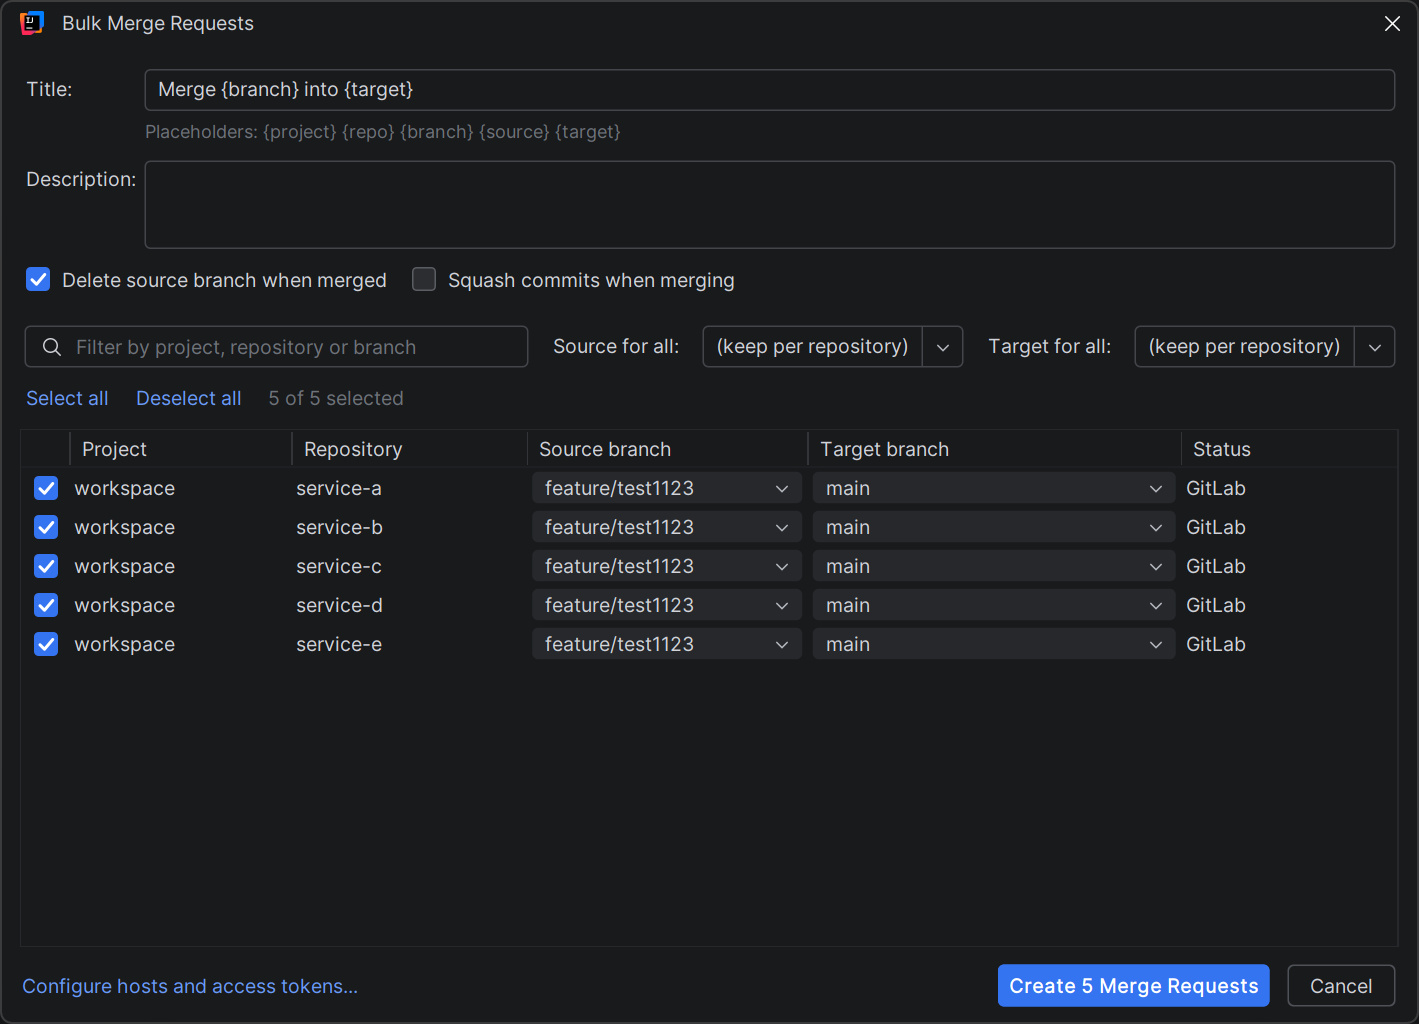
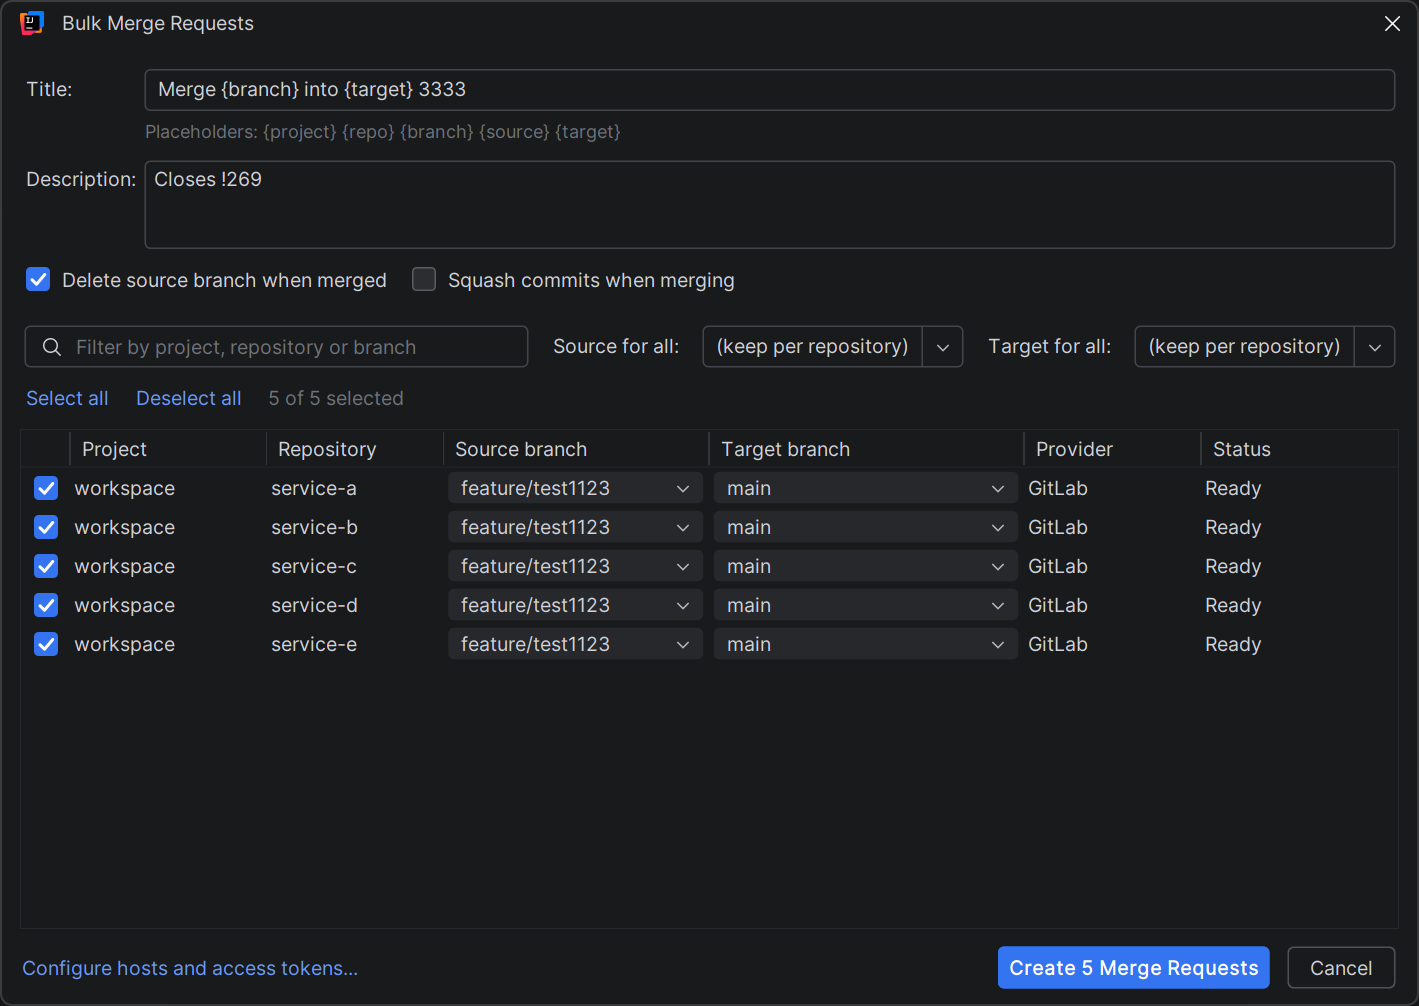
Update README.md

diff --git a/README.md b/README.md
@@ -83,6 +83,10 @@ expired.
 
 ## Settings
 
+`Settings | Tools | Bulk Merge Requests`
+
+![The settings page with the defaults and the configured hosts](docs/images/bulk-merge-requests-settings.png)
+
 | | |
 |---|---|
 | Default target branch | Preselected when a repository has a branch with that name |
